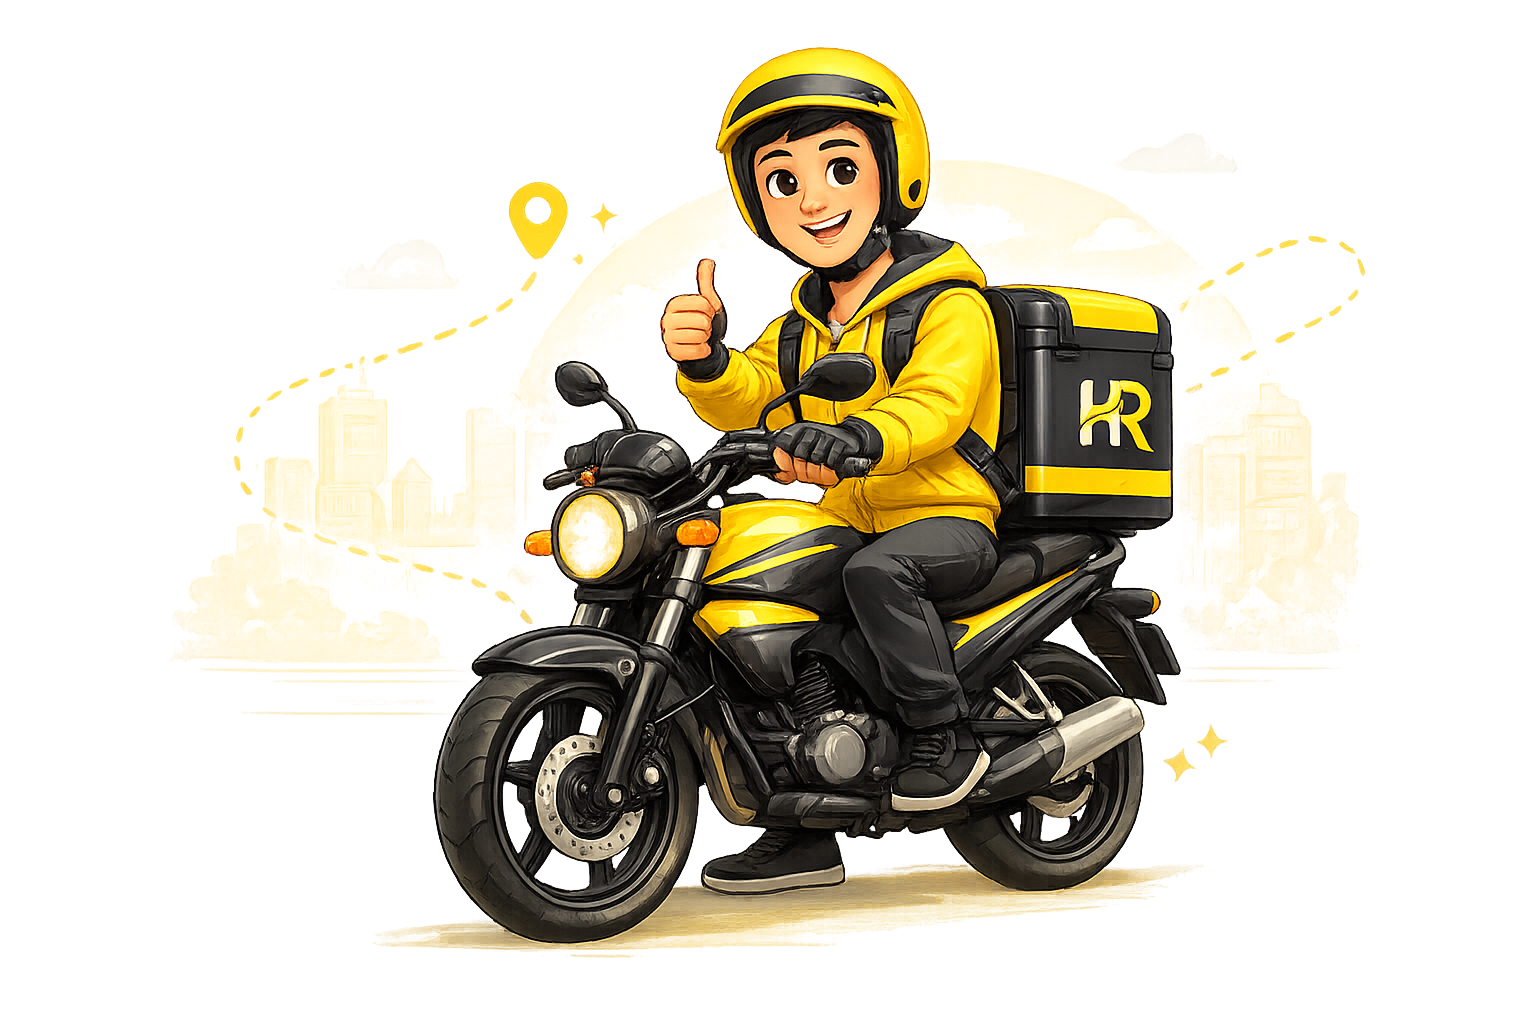
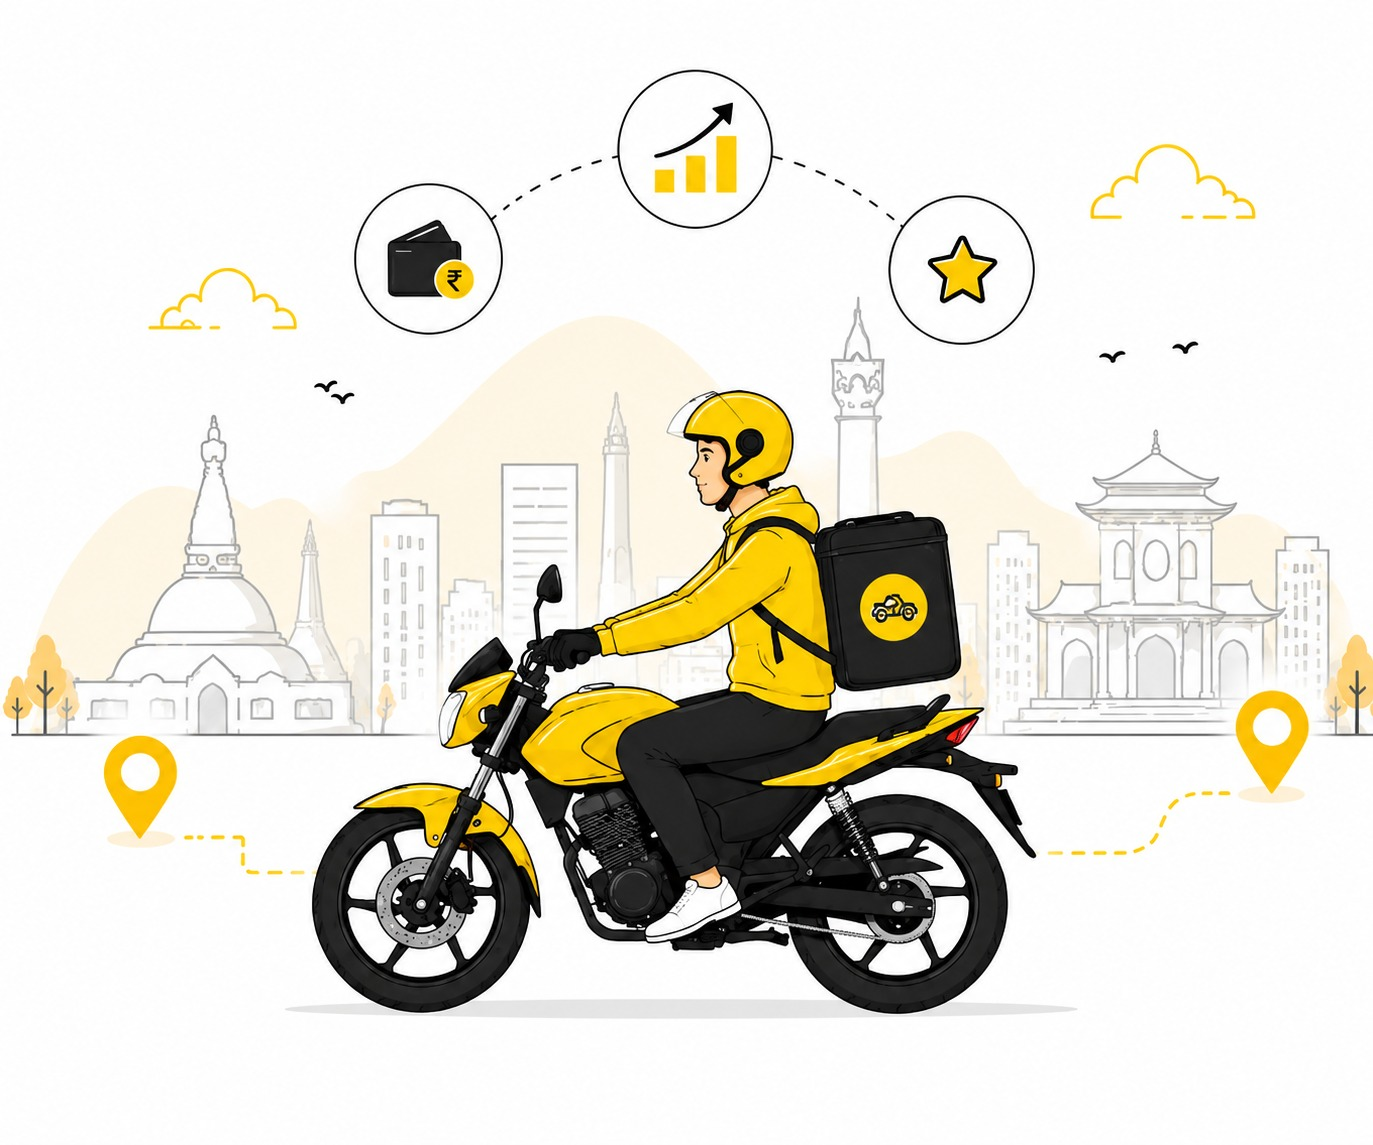
photos changed in services

diff --git a/src/App.css b/src/App.css
@@ -118,7 +118,7 @@
   top: calc(100% + 17px);
   left: 50%;
   z-index: 2000;
-  width: min(380px, calc(100vw - 36px));
+  width: min(460px, calc(100vw - 36px));
   padding: 12px;
   border: 1px solid #ffe100;
   border-radius: 0;
@@ -128,7 +128,7 @@
 }
 
 .services-dropdown-menu {
-  width: min(380px, calc(100vw - 36px));
+  width: min(500px, calc(100vw - 36px));
 }
 
 .earn-dropdown-menu {
@@ -158,11 +158,10 @@
 .dropdown-card {
   display: grid;
   grid-template-columns: 42px 1fr;
-  grid-template-rows: auto auto;
   gap: 2px 10px;
   align-items: center;
-  min-height: 48px;
-  padding: 7px 10px;
+  min-height: 54px;
+  padding: 8px 12px;
   border: 1px solid #ffe100;
   border-radius: 4px;
   background: #fff;
@@ -175,8 +174,8 @@
 }
 
 .dropdown-card-icon {
-  grid-row: span 2;
   display: grid;
+  grid-row: span 2;
   place-items: center;
   width: 38px;
   height: 38px;
@@ -197,7 +196,7 @@
   align-self: end;
   color: #050505;
   font-size: 15px;
-  font-weight: 800;
+  font-weight: 900;
   line-height: 1;
 }
 
@@ -334,7 +333,6 @@
 }
 
 /* for increasing the font-weight in the footer-top */
-.footer-links a,
 .footer-contact a,
 .footer-contact span,
 .footer-contactus-block a {
@@ -360,10 +358,11 @@
 
 
 .dropdown-card small {
-  align-self: start;
+  align-self: center;
+  grid-column: 2;
   color: #050505;
-  font-size: 9px;
-  line-height: 1.2;
+  font-size: 11px;
+  line-height: 1.25;
 }
 
 .earn-option-list {
@@ -1686,13 +1685,7 @@
   display: grid;
   place-items: center;
   width: 100%;
-  min-height: 360px;
-  border: 1px solid rgb(255 225 0 / 70%);
-  border-radius: 22px;
-  background:
-    radial-gradient(circle at 50% 18%, rgb(255 225 0 / 32%), transparent 34%),
-    linear-gradient(180deg, #fff 0%, #fffbe4 100%);
-  overflow: hidden;
+  min-height: 420px;
 }
 
 .hotel-stay-scene::before {
@@ -2089,6 +2082,7 @@
   align-items: center;
   min-height: 112px;
   padding: 22px;
+  /* width: auto; */
   border: 1px solid #ffe100;
   border-radius: 14px;
   background: rgb(255 255 255 / 82%);
@@ -4132,7 +4126,7 @@
 
 .partner-section {
   margin-top: clamp(56px, 8vw, 96px);
-  min-height: 100vh;
+  min-height: 70vh;
   padding: 50px 0 0 0;
   overflow: hidden;
   background: #fff;
@@ -4294,8 +4288,7 @@
 .site-footer {
   background: #fdfbdf;
   border-top: 1px solid #e8e8e8;
-  padding: 34px var(--main-side-padding) 24px;
-  padding-top: 20px;
+  padding: 10px var(--main-side-padding) 8px;
   font-family: 'Inter', -apple-system, BlinkMacSystemFont, 'Segoe UI', sans-serif;
   opacity: 0;
   transform: translateY(30px);
@@ -4314,22 +4307,16 @@
 
 .footer-top {
   display: grid;
-  padding-top: 30px;
-  grid-template-columns: minmax(150px, 1fr) minmax(140px, 1fr) minmax(190px, 1fr);
+  padding-top: 18px;
+  grid-template-columns: minmax(150px, 1fr) minmax(190px, 1fr);
   gap: clamp(22px, 4vw, 54px);
   align-items: start;
-  margin-bottom: 100px;
+  margin-bottom: 28px;
 }
 
 .footer-brand-block {
   justify-self: start;
   text-align: left;
-}
-
-.footer-links {
-  justify-self: end;
-  text-align: left;
-  
 }
 
 .footer-contactus-block {
@@ -4598,40 +4585,31 @@
   background: #1a1a1a;
 }
 
-.footer-links,
 .footer-contact,
 .footer-download-block {
   display: grid;
   align-content: start;
-  gap: 10px;
+  gap: 6px;
 }
 
-.footer-links{
-  font-weight: 400;
-}
-
-.footer-links h2,
 .footer-contact h2,
 .footer-download-block h2 {
-  margin: 0 0 5px;
+  margin: 0 0 3px;
   color: #050505;
-  font-size: 16px;
+  font-size: 14px;
   font-weight: 900;
   line-height: 1;
 }
 
-.footer-links a,
 .footer-contact a,
 .footer-contact span {
   color: #555;
-  font-size: 14px;
+  font-size: 13px;
   line-height: 1.2;
-    font-weight: 300;
-
+  font-weight: 300;
   text-decoration: none;
 }
 
-.footer-links a:hover,
 .footer-contact a:hover {
   color: #151515;
 }
@@ -4643,11 +4621,11 @@
 .footer-bottom {
   display: flex;
   justify-content: center;
-  padding-top: 16px;
-  border-top: 2px solid #282828;
+  padding-top: 8px;
+  border-top: 1px solid #282828;
   color: #000000;
-  font-size: 12px;
-  padding-bottom: 20px;
+  font-size: 11px;
+  padding-bottom: 6px;
 }
 
 @keyframes efvBarGrow {
@@ -4759,8 +4737,9 @@
 
 @media (max-width: 980px) {
   .footer-top {
-    grid-template-columns: repeat(2, minmax(0, 1fr));
-    margin-bottom: 60px;
+    grid-template-columns: 1fr;
+    gap: 20px;
+    margin-bottom: 24px;
   }
 
   .footer-contactus-block {
@@ -4918,10 +4897,6 @@
     height: 28px;
   }
 
-  .dropdown-card strong {
-    font-size: 15px;
-  }
-
   .dropdown-card small {
     font-size: 11px;
   }
@@ -5053,12 +5028,11 @@
   .footer-top {
     grid-template-columns: 1fr;
     gap: 26px;
-    margin-bottom: 36px;
+    margin-bottom: 20px;
     padding-top: 18px;
   }
 
   .footer-brand-block,
-  .footer-links,
   .footer-contactus-block,
   .footer-contact,
   .footer-download-block {
@@ -5924,12 +5898,11 @@ canvas {
   .help-contact-grid,
   .footer-top {
     grid-template-columns: 1fr;
-    margin-bottom: 36px;
+    margin-bottom: 20px;
     padding-top: 18px;
   }
 
   .footer-brand-block,
-  .footer-links,
   .footer-contactus-block,
   .footer-contact,
   .footer-download-block {
@@ -6032,7 +6005,7 @@ canvas {
   }
 
   .hotel-stay-scene {
-    min-height: 330px;
+    min-height: 380px;
   }
 
   .deck {

diff --git a/src/components/Footer.jsx b/src/components/Footer.jsx
@@ -1,22 +1,12 @@
 import { useEffect, useRef, useState } from "react";
 import { Link } from "react-router-dom";
 import logo from "../assets/logoo.png";
-import StoreIcon from "./StoreIcon";
 
-function FooterDownload({ type }) {
-  return (
-    <a className="footer-download" href={`#download-${type}`}>
-      <StoreIcon type={type} />
-      <span>DOWNLOAD</span>
-    </a>
-  );
-}
 
 function SocialLink({ href, label, children }) {
   return (
     <a className="social-icon-wrap" href={href} aria-label={label}>
       <span className="social-icon-circle">{children}</span>
-      <span className="social-label">{label}</span>
     </a>
   );
 }
@@ -98,14 +88,6 @@ function Footer() {
             </div>
           </div>
 
-          <nav className="footer-links" aria-label="Footer navigation">
-            <h2>Explore</h2>
-            <Link to="/services/bike">Bike Rides</Link>
-            <Link to="/services/car">Car Rides</Link>
-            <Link to="/services/parcel">Parcel Delivery</Link>
-            <Link to="/services/food">Food Delivery</Link>
-          </nav>
-
           <address className="footer-contactus-block footer-contact">
             
             <h2>Contact Us</h2>
@@ -114,11 +96,6 @@ function Footer() {
               hello.ride7876@gmail.com
             </a>
             <span>Kathmandu, Nepal</span>
-            <h2>Download</h2>
-            <div className="footer-downloads" aria-label="Download HelloRide">
-              <FooterDownload type="play" />
-              <FooterDownload type="apple" />
-            </div>
           </address>
         </div>
 

diff --git a/src/App.jsx b/src/App.jsx
@@ -24,7 +24,6 @@ import Parcel from "./components/Parcel";
 import Food from "./components/Food";
 import Travel from "./components/Travel";
 import Hotel from "./components/Hotel";
-import OrbitingLogo from "./components/OrbitingLogo";
 import PackageJourney from "./components/PackageJourney";
 import Blog from "./components/Blog";
 import Header from "./components/Header";
@@ -157,13 +156,13 @@ function App() {
         <Route path="/food" element={<Food />} />
         <Route path="/travel" element={<Travel />} />
         <Route path="/hotel" element={<Hotel />} />
-        <Route path="/OrbitingLogo" element={<OrbitingLogo />} />
+
         <Route
           path="/Blog"
           element={
             <>
               <Header />
-              <Blog showBackButton />
+              <Blog />
               <Footer />
             </>
           }

diff --git a/src/components/Blog.jsx b/src/components/Blog.jsx
@@ -49,18 +49,12 @@ export const blogPosts = [
   
 ];
 
-const Blog = ({ preview = false, showBackButton = false }) => {
+const Blog = ({ preview = false }) => {
   const visiblePosts = preview ? blogPosts.slice(0, 2) : blogPosts;
 
   return (
     <section className={`blog-section ${preview ? 'blog-section-preview' : ''}`}>
       <div className="blog-container">
-        {showBackButton && (
-          <Link className="blog-back-button" to="/">
-            Back
-          </Link>
-        )}
-
         <div className="blog-header-row">
           <div className="blog-header">
             <h2>Latest Updates</h2>

diff --git a/src/components/Blog.css b/src/components/Blog.css
@@ -52,22 +52,6 @@
   border-color: #000;
 }
 
-.blog-back-button {
-  display: inline-flex;
-  align-items: center;
-  min-height: 40px;
-  margin-bottom: 26px;
-  color: #000;
-  font-size: 0.95rem;
-  font-weight: 700;
-  text-decoration: none;
-  border-bottom: 2px solid #facc15;
-}
-
-.blog-back-button:hover {
-  border-color: #000;
-}
-
 /* The Grid System */
 .blog-grid {
   display: grid;

diff --git a/src/components/Header.jsx b/src/components/Header.jsx
@@ -134,7 +134,7 @@ function Header() {
                     <span className="dropdown-card-icon">
                       <DropdownIcon type={item.icon} />
                     </span>
-                    <strong>{item.title}</strong>
+                    {item.title}<br />
                     <small>{item.desc}</small>
                   </Link>
                 ))}

diff --git a/src/components/CarRide.jsx b/src/components/CarRide.jsx
@@ -1,6 +1,6 @@
 import ServicePage from "./ServicePage";
 import CarRideAnimation from "./CarRideAnimation";
-import carServiceImage from "../assets/Car illustration.png";
+import carServiceImage from "../assets/Car illustration.jpg";
 
 const carStats = [
   { icon: "bolt", value: "7 min", label: "Avg wait time", delay: "0ms", x: "-30px", y: "-20px" },
